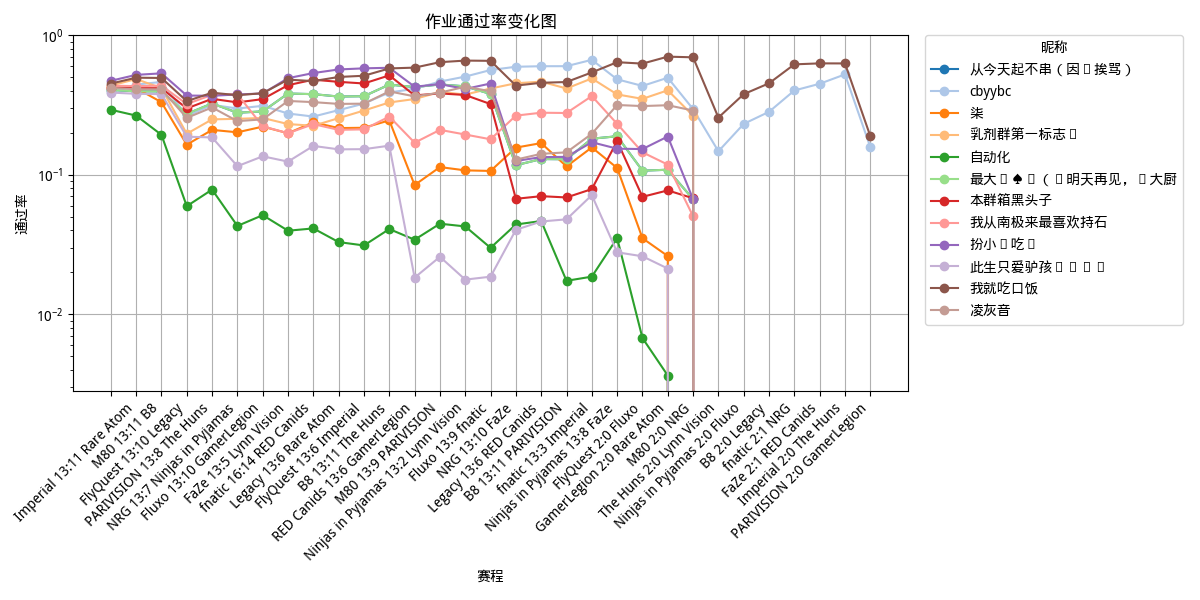
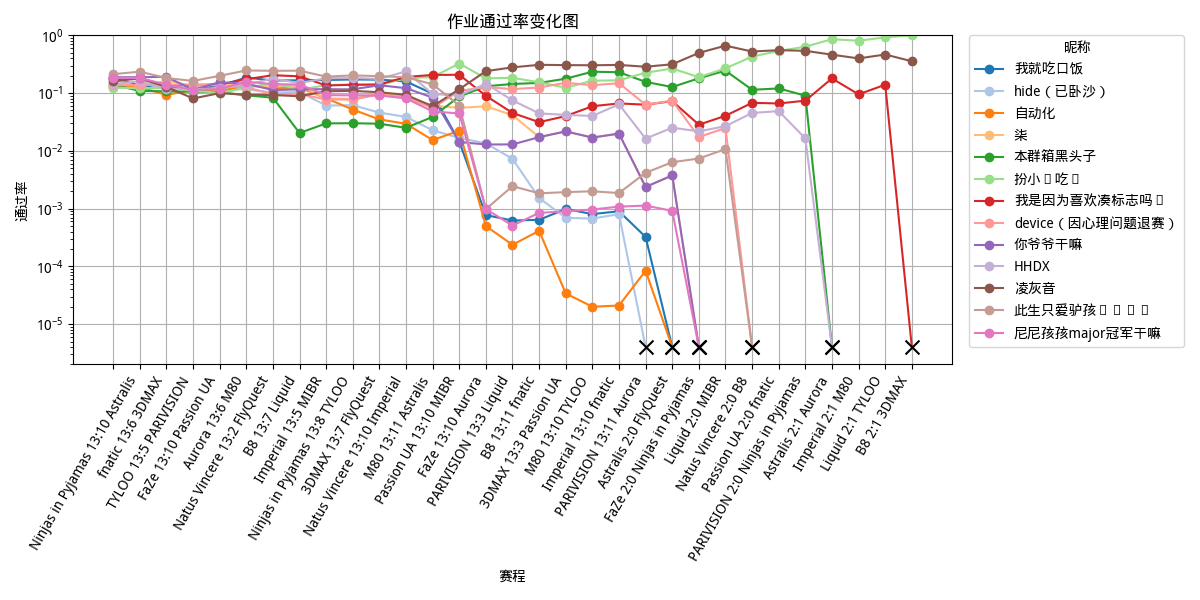
qwq

diff --git a/plugins/hltv_watcher/__init__.py b/plugins/hltv_watcher/__init__.py
@@ -6,8 +6,8 @@ from nonebot import require
 from nonebot import get_bot
 from nonebot import logger
 
-from bs4 import BeautifulSoup
-from curl_cffi.requests import AsyncSession
+from .get5e import get_matches
+
 import json
 import asyncio
 
@@ -27,74 +27,26 @@ __plugin_meta__ = PluginMetadata(
 
 config = get_plugin_config(Config)
 
-
-def parse_matches_by_score(html: str) -> list[tuple[str, str]]:
-    soup = BeautifulSoup(html, 'html.parser')
-
-    title = soup.find("div", class_="event-hub-title").get_text(strip=True)
-
-    results = []
-
-    for match in soup.find_all("div", class_="result-con"):
-        # 1. 获取按顺序排列的两个队伍名称
-        # find_all 会按照文档流的顺序返回元素，所以 teams[0] 是左边队伍，teams[1] 是右边队伍
-        teams = match.find_all("div", class_="team")
-        
-        # 2. 获取比分区域的 span
-        score_cell = match.find("td", class_="result-score")
-        if not score_cell:
-            continue
-        
-        # 这里通常有两个 span：左边分数和右边分数
-        score_spans = score_cell.find_all("span")
-
-        # 确保数据完整性（既有两支队伍，也有两个分数 span）
-        assert(len(teams) == 2 and len(score_spans) == 2)
-        name_left = teams[0].get_text(strip=True)
-        name_right = teams[1].get_text(strip=True)
-        
-        # 3. 判断哪个 span 有 'score-won' 类
-        left_classes = score_spans[0].get("class", [])
-        right_classes = score_spans[1].get("class", [])
-
-        left_score = score_spans[0].get_text(strip=True)
-        right_score = score_spans[1].get_text(strip=True)
-
-        if "score-won" in left_classes:
-            # 左边分数的 span 赢了 -> 左边队伍赢
-            results.append((name_left, name_right, f"{left_score}:{right_score}"))
-        elif "score-won" in right_classes:
-            # 右边分数的 span 赢了 -> 右边队伍赢
-            results.append((name_right, name_left, f"{right_score}:{left_score}"))
-        else:
-            raise(RuntimeError("No win team"))
-    return title, results
-
 updategame = on_command("更新比赛", priority=10, block=True)
 
 @scheduler.scheduled_job("cron", minute="*/5", id="hltv")
+@updategame.handle()
 async def update_events():
     bot = get_bot()
-    async with AsyncSession(impersonate="chrome110") as s:
-        for event in config.hltv_event_id_list:
-            logger.info(f"start get {event}")
-            r = await s.get(f"https://www.hltv.org/results?event={event}")
-            title, res = parse_matches_by_score(r.text)
-            oldres = json.loads(localstorage.get(f"hltvresult{event}", default="[]"))
-            if len(res) != len(oldres):
-                text = title + " 结果有更新"
-                for i in range(len(res) - len(oldres)):
-                    text += f"\n{res[i][0]} {res[i][2]} {res[i][1]}"
-                for groupid in config.cs_group_list:
-                    await bot.send_msg(
-                        message_type="group",
-                        group_id=groupid,
-                        message=text
-                    )
-                localstorage.set(f"hltvresult{event}", json.dumps(res))
-                await event_update(event)
-            await asyncio.sleep(2)
-
-@updategame.handle()
-async def updategame_function():
-    await update_events()
+    for event in config.hltv_event_id_list:
+        logger.info(f"start get {event}")
+        title, res = get_matches(event)
+        oldres = json.loads(localstorage.get(f"hltvresult{event}", default="[]"))
+        if len(res) != len(oldres):
+            text = title + " 结果有更新"
+            for i in range(len(res) - len(oldres)):
+                text += f"\n{res[i][0]} {res[i][2]} {res[i][1]}"
+            for groupid in config.cs_group_list:
+                await bot.send_msg(
+                    message_type="group",
+                    group_id=groupid,
+                    message=text
+                )
+            localstorage.set(f"hltvresult{event}", json.dumps(res))
+            await event_update(event)
+        await asyncio.sleep(2)

diff --git a/homework_plot_tool.py b/homework_plot_tool.py
@@ -39,34 +39,42 @@ for i in range(len(games) + 1):
         gen_win_matrix(info_path, games[:i])
         simulate(info_path, out_path)
 
-with open(Path(".") / "temp" / f"{data['stage']}", "r") as f:
-    cachedatas = json.load(f)
 
 members = data['homework']
+
+cachefile = Path(".") / "temp" / f"{data['stage']}"
+
+
 for i in range(len(members)):
     members[i]['winrate'] = []
-    for cachedata in cachedatas:
-        if cachedata["teams"] == members[i]["teams"]:
-            members[i]['winrate'] = cachedata['winrate']
+
+if cachefile.exists():
+    with open(cachefile, "r") as f:
+        cachedatas = json.load(f)
+    for i in range(len(members)):
+        for cachedata in cachedatas:
+            if cachedata["teams"] == members[i]["teams"]:
+                members[i]['winrate'] = cachedata['winrate']
 
 for i in tqdm(range(len(games) + 1)):
     need = False
     for j in range(len(members)):
-        if len(members[j]['winrate']) < i:
+        if len(members[j]['winrate']) <= i:
             need = True
     if need:
         results, total_simulations = parse_simulation_results(Path(".") / "temp" / f"{data['stage']}-{i}.txt")
         for j in range(len(members)):
-            teams = members[j]['teams']
-            combo = {
-                '3-0': teams[: 2],
-                '3-1/3-2': teams[2: 8],
-                '0-3': teams[8: ]
-            }
-            correct_counts, prob_ge5, expected_value = evaluate_combination(combo, results)
-            members[j]['winrate'].append(prob_ge5)
+            if len(members[j]['winrate']) <= i:
+                teams = members[j]['teams']
+                combo = {
+                    '3-0': teams[: 2],
+                    '3-1/3-2': teams[2: 8],
+                    '0-3': teams[8: ]
+                }
+                correct_counts, prob_ge5, expected_value = evaluate_combination(combo, results)
+                members[j]['winrate'].append(prob_ge5)
 
-with open(Path(".") / "temp" / f"{data['stage']}", "w") as f:
+with open(cachefile, "w") as f:
     json.dump(members, f)
 
 x_indices = list(range(len(x_name)))
@@ -77,13 +85,24 @@ plt.rcParams['axes.prop_cycle'] = mpl.cycler(color=cm.get_cmap('tab20').colors)
 
 plt.figure(figsize=(12, 6))
 
+mn = 1e9
+for member in members:
+    mn = min(mn, min([x for x in member["winrate"] if x > 0]))
+
 for member in members:
     nickname = member["nickname"]
     winrate_data = member["winrate"]
 
     assert(len(winrate_data) == len(x_name))
-    plt.plot(x_indices, winrate_data, label=nickname, marker='o')
-
+    filtered_x = [x_indices[k] for k in range(len(winrate_data)) if winrate_data[k] > 0]
+    filtered_winrate = [winrate_data[k] for k in range(len(winrate_data)) if winrate_data[k] > 0]
+    line,  = plt.plot(filtered_x, filtered_winrate, label=nickname, marker='o')
+    line_color = line.get_color()
+    if filtered_x and len(filtered_x) < len(x_indices):  # 确保有非零点
+        last_x = filtered_x[-1]
+        last_y = filtered_winrate[-1]
+        plt.plot([last_x, last_x + 1], [last_y, mn / 5], color=line_color, marker=None, label=None)
+        plt.scatter(last_x + 1, mn / 5, color='black', marker='x', s=100, zorder=5, label=None)
 
 plt.xlabel("赛程") 
 plt.ylabel("通过率")
@@ -100,8 +119,8 @@ plt.legend(
 )
 plt.grid(True)
 
-plt.xticks(x_indices, x_name, rotation=45, ha='right')
-plt.ylim(0, 1)
+plt.xticks(x_indices, x_name, rotation=60, ha='right')
+plt.ylim(mn / 10, 1)
 
 plt.tight_layout()
 plt.savefig("result.png")

diff --git a/plugins/hltv_watcher/gethltv.py b/plugins/hltv_watcher/gethltv.py
@@ -1,0 +1,50 @@
+from bs4 import BeautifulSoup
+from curl_cffi.requests import AsyncSession
+
+
+def parse_matches_by_score(html: str) -> list[tuple[str, str]]:
+    soup = BeautifulSoup(html, 'html.parser')
+
+    title = soup.find("div", class_="event-hub-title").get_text(strip=True)
+
+    results = []
+
+    for match in soup.find_all("div", class_="result-con"):
+        # 1. 获取按顺序排列的两个队伍名称
+        # find_all 会按照文档流的顺序返回元素，所以 teams[0] 是左边队伍，teams[1] 是右边队伍
+        teams = match.find_all("div", class_="team")
+        
+        # 2. 获取比分区域的 span
+        score_cell = match.find("td", class_="result-score")
+        if not score_cell:
+            continue
+        
+        # 这里通常有两个 span：左边分数和右边分数
+        score_spans = score_cell.find_all("span")
+
+        # 确保数据完整性（既有两支队伍，也有两个分数 span）
+        assert(len(teams) == 2 and len(score_spans) == 2)
+        name_left = teams[0].get_text(strip=True)
+        name_right = teams[1].get_text(strip=True)
+        
+        # 3. 判断哪个 span 有 'score-won' 类
+        left_classes = score_spans[0].get("class", [])
+        right_classes = score_spans[1].get("class", [])
+
+        left_score = score_spans[0].get_text(strip=True)
+        right_score = score_spans[1].get_text(strip=True)
+
+        if "score-won" in left_classes:
+            # 左边分数的 span 赢了 -> 左边队伍赢
+            results.append((name_left, name_right, f"{left_score}:{right_score}"))
+        elif "score-won" in right_classes:
+            # 右边分数的 span 赢了 -> 右边队伍赢
+            results.append((name_right, name_left, f"{right_score}:{left_score}"))
+        else:
+            raise(RuntimeError("No win team"))
+    return title, results
+
+async def get_matches(event):
+    async with AsyncSession(impersonate="chrome110") as s:
+        r = await s.get(f"https://www.hltv.org/results?event={event}")
+        return parse_matches_by_score(r.text)

diff --git a/plugins/hltv_watcher/get5e.py b/plugins/hltv_watcher/get5e.py
@@ -1,0 +1,24 @@
+from nonebot import require
+
+get_session = require("utils").get_session
+
+async def get_matches(event):
+    url = f"https://app.5eplay.com/api/tournament/event_session_list?tt_id=csgo_tt_{event}&game_type=1"
+    async with get_session().get(url) as result:
+        data = await result.json()
+        title = ""
+        res = []
+        for match in data['data']['matches']:
+            if int(match['state']['status']) == 2:
+                title = match['tt_info']['disp_name']
+                team1 = match['mc_info']['t1_info']['disp_name']
+                team2 = match['mc_info']['t2_info']['disp_name']
+                team1_score = int(match['state']['t1_score'])
+                team2_score = int(match['state']['t2_score'])
+                if team2_score > team1_score:
+                    team1, team2 = team2, team1
+                    team1_score, team2_score = team2_score, team1_score
+                print()
+                res.append((team1, team2, f"{team1_score}:{team2_score}"))
+        res.reverse()
+        return title, res 
